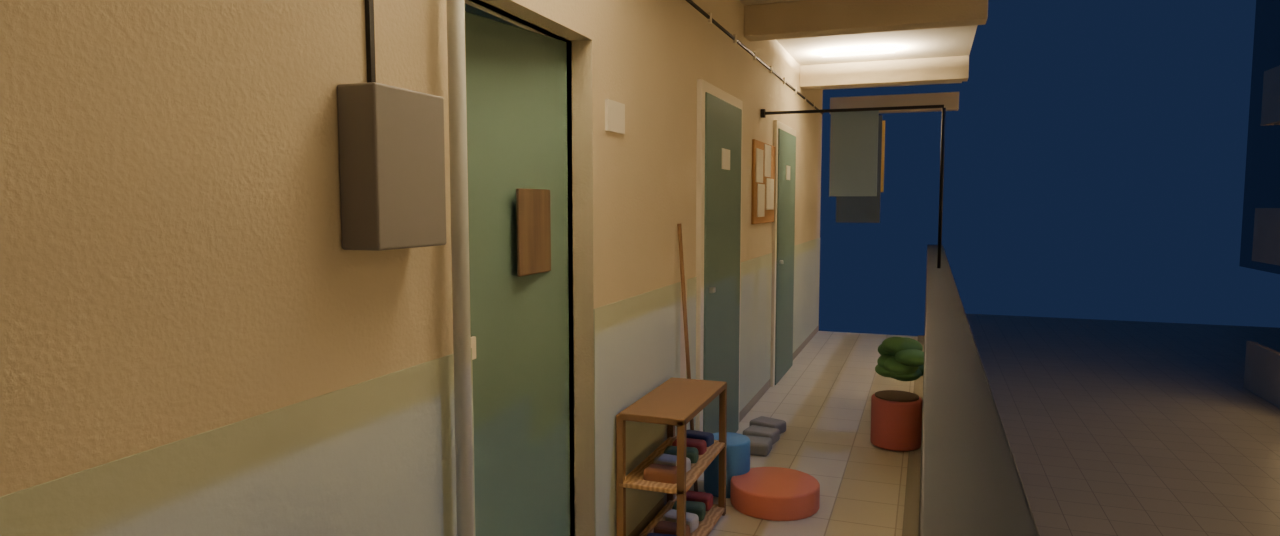
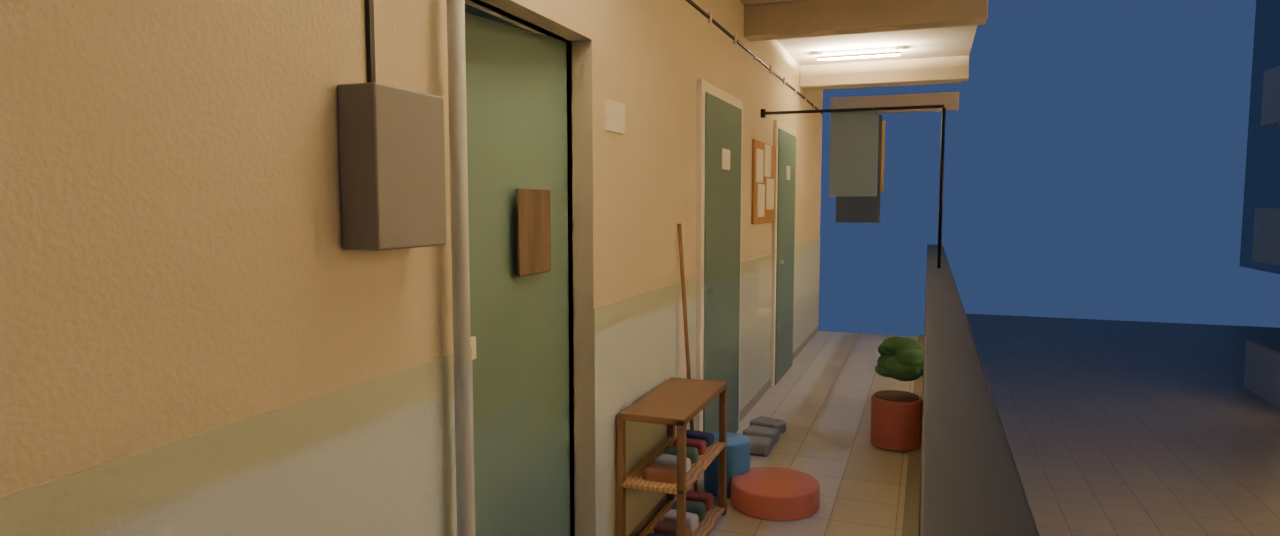
Ho so 02: hanh lang ban dem (cua so doi dien sang, bong nguoi, chao den)
Claude-Session: https://claude.ai/code/session_015xtvRhLRyfqVC2mbHabEYR

diff --git a/episodes/hem-co-chuyen/ho-so-02-nguoi-lam-thay/assets/boi-canh-3d/xay_phong_tro.py b/episodes/hem-co-chuyen/ho-so-02-nguoi-lam-thay/assets/boi-canh-3d/xay_phong_tro.py
@@ -457,8 +457,24 @@ def hallway(m, coll, night):
         for i in range(9):
             y = -4.5 + i * 2.5
             box(f'cua_dd{fl}_{i}', bx + 1.3 - 0.0, bx + 1.32, y, y + 0.85, zb, zb + 2.0, M.solid(f'cua_dd{fl}_{i}', ['#6d887c', '#8aa099', '#b7a98a'][i % 3], 0.6), coll=coll)
-            win = box(f'cua_so_dd{fl}_{i}', bx + 1.3, bx + 1.33, y + 1.2, y + 2.0, zb + 0.9, zb + 1.9, m['dd_cua_so'], coll=coll)
+            if night:
+                r = (fl * 9 + i) * 2654435761 % 100
+                st = 'tat' if r < 30 else ('lanh' if r < 50 else 'am')
+                wm = {'tat': M.solid('dd_cs_tat', '#1d2535', 0.2), 'lanh': M.emission(f'dd_cs_l{fl}_{i}', '#cfe6ff', 1.6), 'am': M.emission(f'dd_cs_a{fl}_{i}', '#ffd089', 2.2)}[st]
+            else:
+                st = 'tat'; wm = m['dd_cua_so']
+            win = box(f'cua_so_dd{fl}_{i}', bx + 1.3, bx + 1.33, y + 1.2, y + 2.0, zb + 0.9, zb + 1.9, wm, coll=coll)
+            if night and st != 'tat':
+                box(f'dd_ram{fl}_{i}', bx + 1.33, bx + 1.345, y + 1.2, y + 1.38, zb + 0.9, zb + 1.9, M.solid('dd_rem', '#7a8a9a' if st == 'lanh' else '#a86a4a', 0.9), coll=coll)
+                if r % 3 == 0:  # bóng người đứng sau cửa sổ
+                    sphere(f'dd_dau{fl}_{i}', bx + 1.36, y + 1.6, zb + 1.62, 0.1, M.solid('dd_bong', '#1a1a1f', 0.9), coll=coll)
+                    box(f'dd_than{fl}_{i}', bx + 1.34, bx + 1.38, y + 1.45, y + 1.75, zb + 0.9, zb + 1.52, M.solid('dd_bong2', '#1a1a1f', 0.9), bevel=0.03, coll=coll)
         box(f'ld_lancan{fl}', bx + 1.2, bx + 1.3, -6, 20, zb, zb + 1.0, m['tuong'], coll=coll)
+    if night:
+        for k, (yy, zz) in enumerate([(2.0, 3.8), (7.5, 3.8), (4.5, 1.0), (10.0, 1.0)]):
+            add_area(f'hat_dd{k}', (bx + 1.8, yy, zz), 1.6, 160, '#ffd9a0', rot=(0, math.radians(90), 0), coll=coll)
+        box('chao_den_hl', -1.04, -0.36, 2.28, 2.36, H - 0.06, H - 0.04, m['viền'], coll=coll)
+        box('chao_den_hl2', -1.04, -0.36, 7.18, 7.26, H - 0.06, H - 0.04, m['viền'], coll=coll)
     box('phan_xa_toa_nha', -60, -20, -30, 60, -2.5, 22, M.mottled('toa_nha_xa', '#9aa3a6', rough=1.0, scale=0.3, vary=0.1, bump=0.0), coll=coll)
 
 
@@ -525,6 +541,11 @@ def world_and_lights(mode, coll):
         _link(sun, coll)
     else:
         bg.inputs['Color'].default_value = M._hex('#243456'); bg.inputs['Strength'].default_value = 0.55
+        tc = nt.nodes.new('ShaderNodeTexCoord'); sp = nt.nodes.new('ShaderNodeSeparateXYZ'); cr = nt.nodes.new('ShaderNodeValToRGB')
+        nt.links.new(tc.outputs['Generated'], sp.inputs['Vector']); nt.links.new(sp.outputs['Z'], cr.inputs['Fac'])
+        cr.color_ramp.elements[0].position = 0.45; cr.color_ramp.elements[0].color = M._hex('#4a5f8c')
+        cr.color_ramp.elements[1].position = 0.85; cr.color_ramp.elements[1].color = M._hex('#0c1530')
+        nt.links.new(cr.outputs['Color'], bg.inputs['Color'])
         bpy.ops.object.light_add(type='SUN', location=(8, 2, 6)); mo = bpy.context.object; mo.name = 'trang'
         mo.data.energy = 0.6; mo.data.color = M._hex('#6f8fd6')[:3]; mo.rotation_euler = mrot((0, math.radians(-40), math.radians(-12))); _link(mo, coll)
 

diff --git a/episodes/hem-co-chuyen/ho-so-02-nguoi-lam-thay/assets/boi-canh-3d/README.md b/episodes/hem-co-chuyen/ho-so-02-nguoi-lam-thay/assets/boi-canh-3d/README.md
@@ -45,4 +45,5 @@ Trên Linux không màn hình cần `libegl1`. Render Cycles CPU, khoảng 1–2
 ## Hành lang (lượt 12/11 tối)
 - Thêm `hallway_details`: dây điện có kẹp, dầm mái, đèn cửa, kệ giày + dép, dây phơi có cột và móc, bình chữa cháy + bảng, bảng thông báo, xô/chậu/chổi, vệt ố chân tường, rãnh nước.
 - Camera mới: `HALL_FACE` (nhìn về cửa phòng Nam), `HALL_END`, `HALL_STAIR`. Ảnh trong `xem-thu/`.
-- Chưa làm: ánh sáng ngoại cảnh ban đêm (dãy trọ đối diện chưa sáng đèn đủ), người/đồ chuyển động, âm thanh.
+- Ban đêm: dãy trọ đối diện có cửa sổ sáng/tắt xen kẽ, rèm, vài bóng người, ánh hắt vào hành lang; chao đèn tuýp hành lang; trời có chuyển sắc.
+- Chưa làm: chuyển động (đồ phơi lay, người đi lại), âm thanh.
